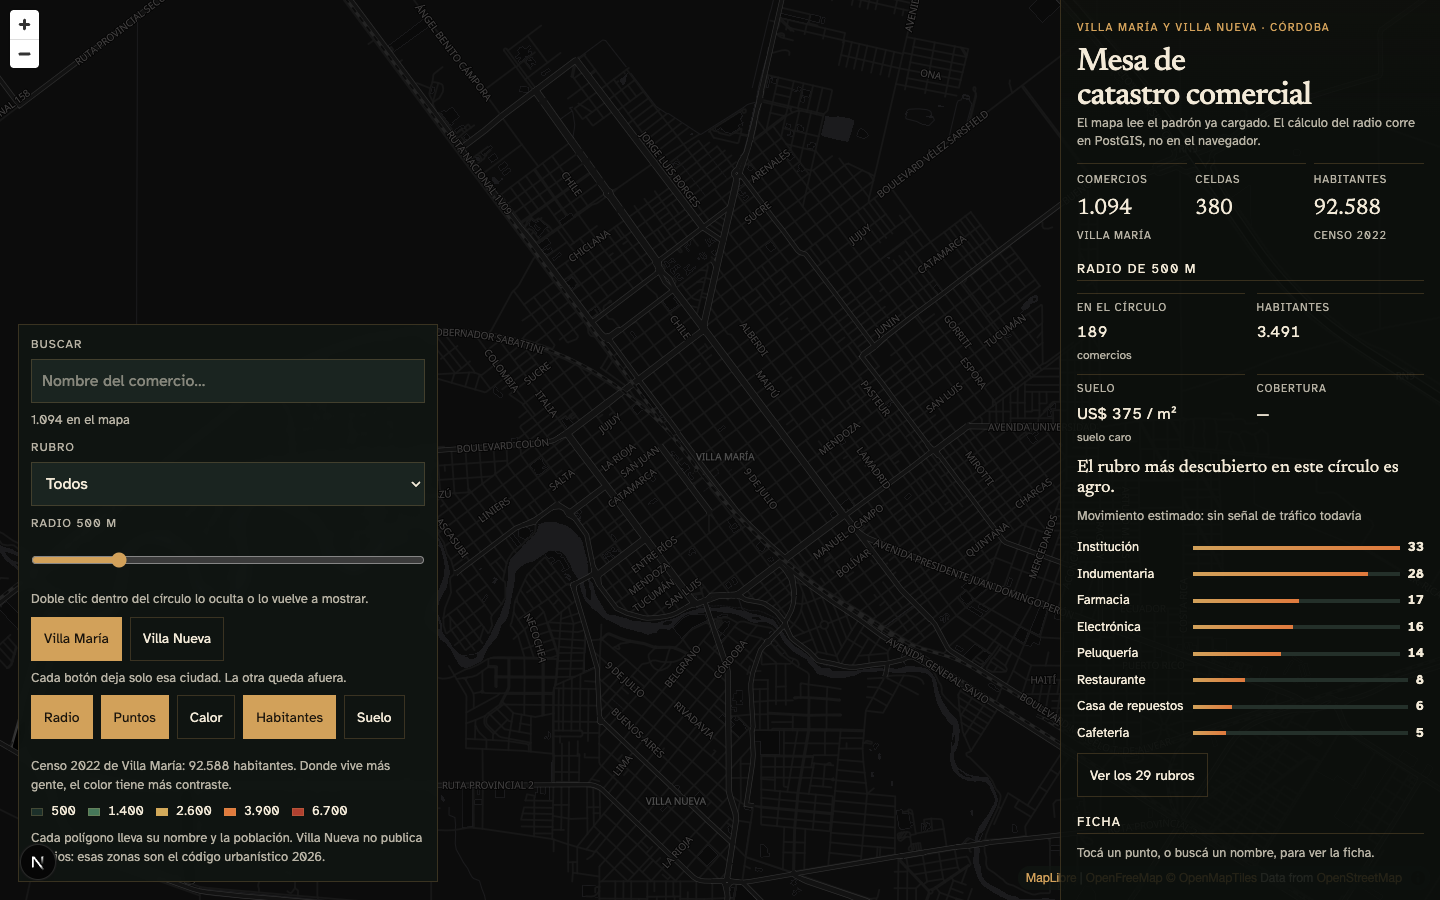
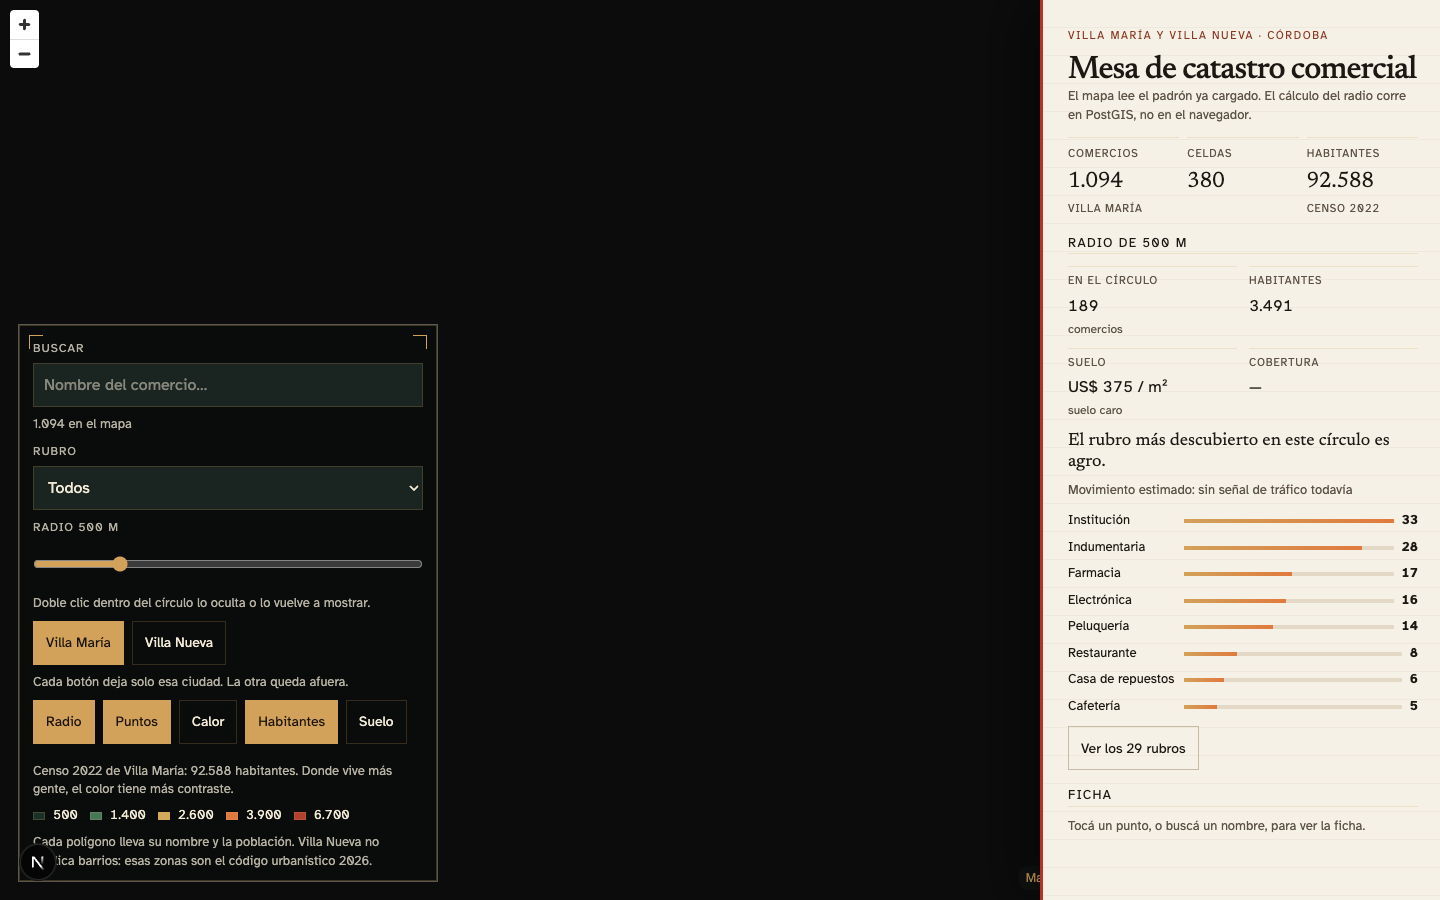
style: read the desk from a survey sheet

diff --git a/apps/web/src/app/globals.css b/apps/web/src/app/globals.css
@@ -191,10 +191,15 @@ body {
   overscroll-behavior: contain;
   display: grid;
   gap: 8px;
-  padding: 10px 12px 12px;
-  background: var(--panel);
-  border: 1px solid var(--line);
-  backdrop-filter: blur(4px);
+  padding: 14px 14px 12px;
+  background:
+    linear-gradient(var(--brass), var(--brass)) 10px 10px / 14px 1px no-repeat,
+    linear-gradient(var(--brass), var(--brass)) 10px 10px / 1px 14px no-repeat,
+    linear-gradient(var(--brass), var(--brass)) calc(100% - 10px) 10px / 14px 1px no-repeat,
+    linear-gradient(var(--brass), var(--brass)) calc(100% - 10px) 10px / 1px 14px no-repeat,
+    rgba(8, 12, 10, 0.94);
+  border: 1px solid rgba(243, 234, 216, 0.35);
+  box-shadow: inset 0 0 0 1px rgba(210, 161, 90, 0.28);
 }
 
 .tools label {
@@ -432,21 +437,24 @@ a:focus-visible {
   z-index: 2;
   top: 0;
   right: 0;
-  width: min(380px, 100vw);
+  width: min(400px, 100vw);
   height: 100%;
   overflow: auto;
   overscroll-behavior: contain;
-  padding: max(20px, env(safe-area-inset-top)) 16px max(28px, env(safe-area-inset-bottom));
+  padding: max(28px, env(safe-area-inset-top)) 22px max(32px, env(safe-area-inset-bottom)) 28px;
+  color: #1c1914;
   background:
-    linear-gradient(180deg, rgba(22, 18, 12, 0.2), transparent 120px),
-    rgba(12, 16, 13, 0.88);
-  border-left: 1px solid var(--line);
+    linear-gradient(#b43324, #b43324) 0 0 / 3px 100% no-repeat,
+    repeating-linear-gradient(#f6f1e6, #f6f1e6 27px, rgba(28, 25, 20, 0.06) 28px),
+    #f3ecdf;
+  border-left: 0;
+  box-shadow: -24px 0 48px rgba(0, 0, 0, 0.38);
 }
 
 .eyebrow {
   margin: 0;
-  color: var(--brass);
-  letter-spacing: 0.12em;
+  color: #8a3a22;
+  letter-spacing: 0.14em;
   text-transform: uppercase;
   font-size: 11px;
 }
@@ -466,6 +474,55 @@ a:focus-visible {
   color: var(--muted);
   font-size: 13px;
   line-height: 1.45;
+}
+
+.inspector .lede,
+.inspector .note,
+.inspector .empty,
+.inspector .statline,
+.inspector .meters dt,
+.inspector .meters dd small,
+.inspector .cross dt,
+.inspector .cross small,
+.inspector .potential span,
+.inspector .ficha dt {
+  color: #5c5346;
+}
+
+.inspector .saturation,
+.inspector .where button,
+.inspector .ficha a,
+.inspector .ficha h3,
+.inspector .potential strong,
+.inspector h2 {
+  color: #1c1914;
+}
+
+.inspector .where button:hover,
+.inspector .where button:focus-visible,
+.inspector .rubro,
+.inspector .where button b,
+.inspector .where small {
+  color: #8a3a22;
+}
+
+.inspector .track { background: #e4d9c6; }
+
+.inspector .alert {
+  color: #6e2e1c;
+  border-color: rgba(157, 43, 31, 0.45);
+}
+
+.inspector .alert button,
+.inspector .text-button {
+  color: #1c1914;
+  border-color: #c8bba4;
+}
+
+.inspector .text-button:hover,
+.inspector .text-button:focus-visible {
+  color: #8a3a22;
+  border-color: #8a3a22;
 }
 
 .alert {
